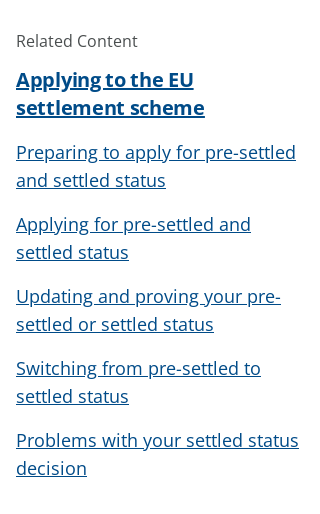
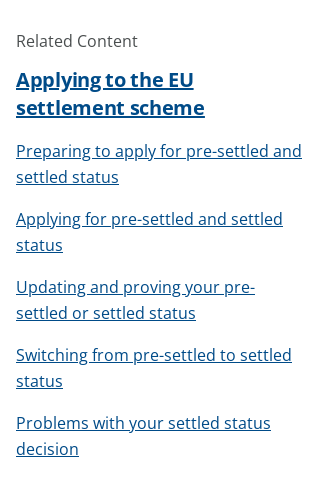
fix: fixed section links not going smaller on mobile

diff --git a/scss/6-components/_section-links.scss b/scss/6-components/_section-links.scss
@@ -19,18 +19,12 @@
   }
 
   &__links {
-    list-style: none;
+    @extend %cads-list-no-bullet;
     margin-bottom: 0;
-    padding-left: 0;
-  }
 
-  &__item {
-    margin-bottom: $cads-spacing-4;
-  }
-
-  &__link {
-    font-size: 1.125rem;
-    line-height: 1.75rem;
+    .cads-section-links__item {
+      margin-bottom: $cads-spacing-4;
+    }
   }
 }
 

diff --git a/CHANGELOG.md b/CHANGELOG.md
@@ -1,3 +1,6 @@
+**Bugfixes**
+- 📱 Section Links: Using `cads-list-no-bullet` styles to make the font consistent on smaller screens.
+
 ## <sub>v5.2.0-alpha.2</sub>
 
 #### _Jan. 27, 2022_